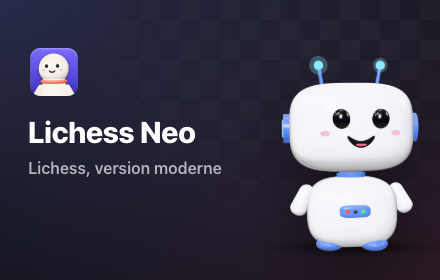
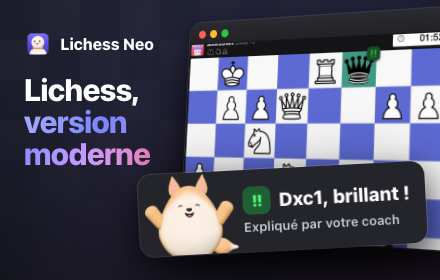
Redraw the store's promo tiles around the coach card and the coaches

diff --git a/store/templates/promo-marquee.html b/store/templates/promo-marquee.html
@@ -9,44 +9,82 @@
   body {
     --w: 1400px;
     --h: 560px;
-    --glow-x: 0%;
-    --glow-y: 0%;
-    --grid-x: 20%;
+    --glow-x: 75%;
+    --glow-y: 30%;
+    --grid-x: 15%;
     --grid-y: 0%;
   }
 
   header {
-    top: 70px;
-    left: 70px;
-    width: 560px;
+    top: 96px;
+    left: 76px;
+    width: 540px;
   }
 
   h1 {
-    font-size: 62px;
+    font-size: 68px;
+    line-height: 1.02;
   }
 
-  .chips {
-    top: 430px;
-    left: 70px;
-    display: flex;
+  .sub {
+    max-width: 470px;
+  }
+
+  .chip.coaches {
+    top: 440px;
+    left: 76px;
+  }
+
+  .stage {
+    top: 40px;
+    left: 640px;
+    width: 800px;
+    height: 430px;
+    perspective: 1100px;
+  }
+
+  .stage > .window {
+    width: 820px;
+    transform: rotateY(-24deg) rotateX(4deg);
+  }
+
+  .window > div img {
+    left: -110px;
+    top: -10px;
+    width: 1000px;
+  }
+
+  .say {
+    top: 64px;
+    right: 70px;
+    padding: 20px 28px;
+    border-radius: 20px;
+    transform: rotate(3deg);
+  }
+
+  .say .move {
     gap: 12px;
+    font-size: 30px;
   }
 
-  .note {
-    top: 510px;
-    left: 70px;
+  .say .move b {
+    width: 44px;
+    height: 44px;
+    border-radius: 12px;
+    font-size: 25px;
   }
 
-  .window {
-    top: 56px;
-    left: 700px;
-    width: 760px;
+  /* The coaches line up along the window's bottom edge, as on a stage. */
+  .squad {
+    left: 560px;
+    bottom: -14px;
+    width: 900px;
+    height: 240px;
   }
 
-  .cloud {
-    top: 340px;
-    left: 600px;
-    height: 210px;
+  .squad img {
+    position: absolute;
+    filter: drop-shadow(0 16px 22px #00000099);
   }
 </style>
 
@@ -54,21 +92,31 @@
   <p class="brand"><img src="../../public/icons/icon128.png">Lichess Neo</p>
   <h1 lang="en">Lichess, <em>made modern</em></h1>
   <h1 lang="fr">Lichess, <em>version moderne</em></h1>
-  <p class="sub" lang="en">A roomy layout, playful pages, a 3D coach and a Debrief for every game.</p>
-  <p class="sub" lang="fr">Une mise en page aérée, des pages ludiques, un coach en 3D et un débrief pour chaque partie.</p>
+  <p class="sub" lang="en">A roomy layout, playful pages, and a coach who goes over every game with you.</p>
+  <p class="sub" lang="fr">Une mise en page aérée, des pages ludiques, et un coach qui revoit chaque partie avec vous.</p>
 </header>
+<p class="chip coaches"><span class="tile pink i-happy"></span><span lang="en">26 coaches to pick from</span><span lang="fr">26 coachs au choix</span></p>
 
-<div class="chips">
-  <p class="chip"><span class="tile green i-sparkles"></span><span lang="en">Debrief</span><span lang="fr">Débrief</span></p>
-  <p class="chip"><span class="tile pink i-happy"></span><span lang="en">26 coaches</span><span lang="fr">26 coachs</span></p>
-  <p class="chip"><span class="tile purple i-paint"></span><span lang="en">16 themes</span><span lang="fr">16 thèmes</span></p>
+<div class="stage">
+  <div class="window">
+    <p><span>lichess.org<b>/game/2uAlbTma/black</b></span></p>
+    <div>
+      <img lang="en" src="shots/review-brilliant-en.webp">
+      <img lang="fr" src="shots/review-brilliant-fr.webp">
+    </div>
+  </div>
 </div>
-<p class="note" lang="en">An unofficial fan project, not affiliated with Lichess.</p>
-<p class="note" lang="fr">Un projet de fan non officiel, sans lien avec Lichess.</p>
+<div class="say">
+  <p class="move"><b>!!</b><span lang="en">Qxc1, brilliant!</span><span lang="fr">Dxc1, brillant !</span></p>
+</div>
 
-<div class="window">
-  <p><span>lichess.org<b>/2uAlbTma/black</b></span></p>
-  <img lang="en" src="shots/review-brilliant-en.webp">
-  <img lang="fr" src="shots/review-brilliant-fr.webp">
+<div class="squad">
+  <img src="coaches/coach-4-delight.webp" style="left: 0; bottom: 8px; height: 150px">
+  <img src="coaches/coach-14-happy.webp" style="left: 110px; bottom: 14px; height: 176px">
+  <img src="coaches/coach-2-delight.webp" style="left: 216px; bottom: 6px; height: 200px">
+  <img src="coaches/robot-2-delight.webp" style="left: 430px; bottom: 0; height: 196px">
+  <img src="coaches/coach-24-delight.webp" style="left: 560px; bottom: 10px; height: 170px">
+  <img src="coaches/coach-26-delight.webp" style="left: 680px; bottom: 24px; height: 160px">
+  <img src="coaches/coach-5-happy.webp" style="left: 780px; bottom: 4px; height: 150px">
+  <img src="coaches/icon-pion-full.webp" style="left: 350px; bottom: -6px; height: 156px">
 </div>
-<img class="coach cloud" src="coaches/coach-24-delight.webp">

diff --git a/store/templates/promo-small.html b/store/templates/promo-small.html
@@ -9,50 +9,121 @@
   body {
     --w: 440px;
     --h: 280px;
-    --glow-x: 0%;
-    --glow-y: 0%;
-  }
-
-  body::before {
-    background-size: 40px 40px;
+    --glow-x: 80%;
+    --glow-y: 30%;
+    --grid-x: 20%;
+    --grid-y: 0%;
   }
 
   header {
-    top: 46px;
-    left: 28px;
-    width: 250px;
-    gap: 10px;
+    top: 30px;
+    left: 24px;
+    width: 170px;
+    gap: 16px;
   }
 
-  header img {
-    width: 64px;
-    height: 64px;
-    margin: -6px 0 0 -6px;
-  }
-
-  header b {
-    font-size: 30px;
-    font-weight: 800;
-    letter-spacing: -0.02em;
-  }
-
-  header span {
-    color: var(--dim);
+  .brand {
+    gap: 8px;
     font-size: 16px;
-    font-weight: 600;
   }
 
-  .robot {
-    top: 56px;
-    left: 262px;
-    height: 200px;
+  .brand img {
+    width: 28px;
+    height: 28px;
+  }
+
+  h1 {
+    font-size: 31px;
+    line-height: 1.04;
+  }
+
+  .stage {
+    top: 22px;
+    left: 186px;
+    width: 300px;
+    height: 210px;
+    perspective: 700px;
+  }
+
+  .stage > .window {
+    width: 330px;
+    transform: rotateY(-22deg) rotateX(5deg);
+  }
+
+  .window::before {
+    top: 8px;
+    left: 10px;
+    width: 8px;
+    height: 8px;
+    box-shadow: 13px 0 #febc2e, 26px 0 #28c840;
+  }
+
+  .window > p {
+    height: 22px;
+  }
+
+  .window > div {
+    height: calc(100% - 22px);
+  }
+
+  .window > div img {
+    left: -84px;
+    top: -12px;
+    width: 520px;
+  }
+
+  .say {
+    top: 168px;
+    right: 14px;
+    height: 82px;
+    gap: 4px;
+    padding: 12px 16px 12px 104px;
+    border-radius: 14px;
+    transform: rotate(-3deg);
+  }
+
+  .say > img {
+    left: 6px;
+    bottom: -12px;
+    height: 92px;
+  }
+
+  .say .move {
+    gap: 8px;
+    font-size: 19px;
+  }
+
+  .say .move b {
+    width: 28px;
+    height: 28px;
+    border-radius: 8px;
+    font-size: 16px;
+  }
+
+  .say .why {
+    font-size: 13px;
   }
 </style>
 
 <header>
-  <img src="../../public/icons/icon128.png">
-  <b>Lichess Neo</b>
-  <span lang="en">Lichess, made modern</span>
-  <span lang="fr">Lichess, version moderne</span>
+  <p class="brand"><img src="../../public/icons/icon128.png">Lichess Neo</p>
+  <h1 lang="en">Lichess, <em>made modern</em></h1>
+  <h1 lang="fr">Lichess, <em>version moderne</em></h1>
 </header>
-<img class="coach robot" src="coaches/robot-2-happy.webp">
+
+<div class="stage">
+  <div class="window">
+    <p></p>
+    <div>
+      <img lang="en" src="shots/review-brilliant-en.webp">
+      <img lang="fr" src="shots/review-brilliant-fr.webp">
+    </div>
+  </div>
+</div>
+
+<div class="say">
+  <img src="coaches/coach-2-delight.webp">
+  <p class="move"><b>!!</b><span lang="en">Qxc1, brilliant!</span><span lang="fr">Dxc1, brillant !</span></p>
+  <p class="why" lang="en">Explained by your coach</p>
+  <p class="why" lang="fr">Expliqué par votre coach</p>
+</div>

diff --git a/store/templates/store.css b/store/templates/store.css
@@ -309,6 +309,61 @@ h1 em {
   box-shadow: 0 0 0 1px #ffffff26, 0 26px 60px #000000b8, 0 8px 20px #00000080;
 }
 
+/* A window in perspective, its shot cropped: the stage sets the depth, a page
+   the tilt, the crop's size and where the shot sits in it. */
+.stage > .window {
+  position: absolute;
+  inset: 0;
+  transform-origin: 0 50%;
+}
+
+.window > div {
+  position: relative;
+  overflow: hidden;
+  height: calc(100% - 34px);
+}
+
+.window > div img {
+  position: absolute;
+}
+
+/* The Debrief's coach card, redrawn large enough to read on a promo tile: the
+   coach on its bottom edge, its words on its right. A page sets the sizes. */
+.say {
+  display: grid;
+  align-content: center;
+  width: max-content;
+  overflow: hidden;
+  background: #24242b;
+  box-shadow: 0 0 0 1px #ffffff26, var(--shadow);
+}
+
+.say > img {
+  position: absolute;
+}
+
+.say .move {
+  display: flex;
+  align-items: center;
+  font-weight: 800;
+  white-space: nowrap;
+}
+
+.say .move b {
+  display: grid;
+  place-items: center;
+  flex: none;
+  background: #1f5f33;
+  color: var(--green);
+  letter-spacing: -0.06em;
+}
+
+.say .why {
+  color: #c9c9d2;
+  font-weight: 600;
+  white-space: nowrap;
+}
+
 .coach {
   filter: drop-shadow(0 18px 26px #00000066);
 }
